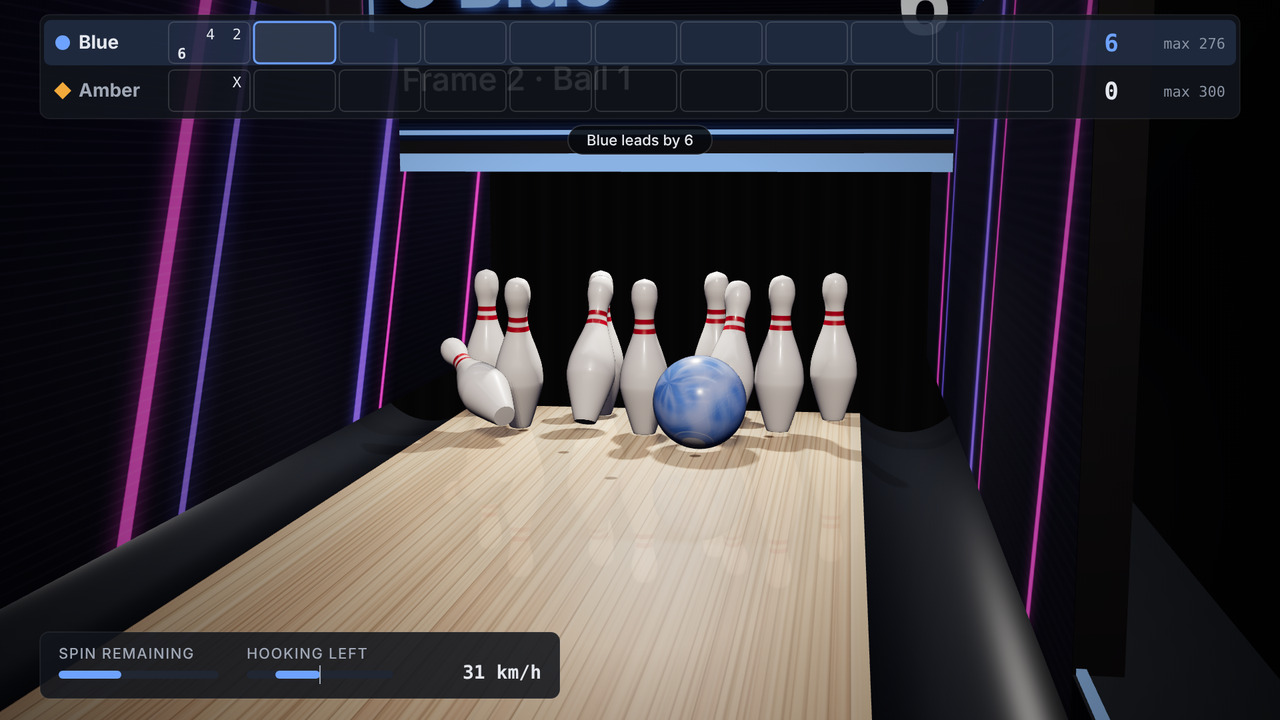
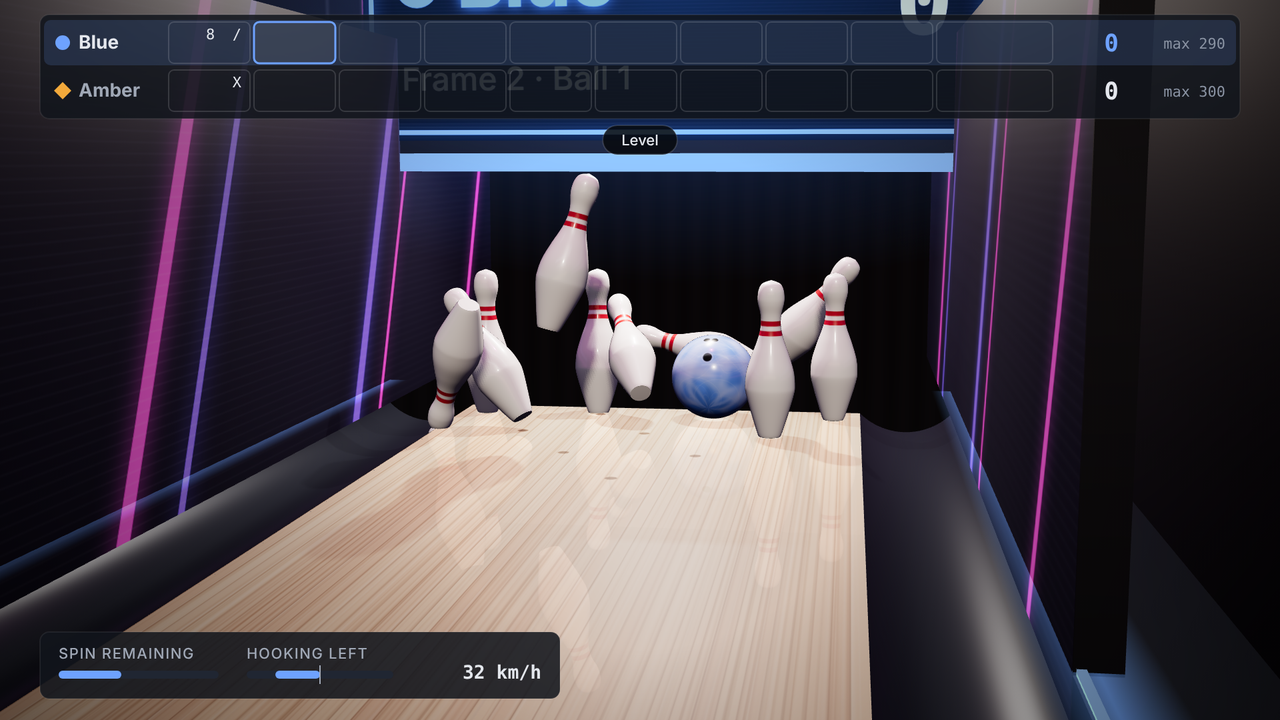
Tenpin Grudge: refine the hall's lighting
- Pink and violet light spills from the wall neon onto the outer lanes; glow halos on the tubes and the sign.
- A short-range light over the pin decks lights the neighbours' pins without streaking down lane 14.
- Reflections on the ball, pins and lane now pick up the neon.
- The capping lights and the lane 14 screen glow softly in the bowler's colour.
Physics, scoring and the bot are unchanged.

Claude-Session: https://claude.ai/code/session_01LpKQHdNm2zbJTVhMqFWkmD

diff --git a/master.html b/master.html
@@ -8529,6 +8529,8 @@ class View {
     for (let i = 0; i < 9; i++) rm(new THREE.PlaneGeometry(10, 0.5), new THREE.MeshBasicMaterial({ color: new THREE.Color(5, 5.2, 5.6), side: THREE.DoubleSide }), 0, 6.3, -28 + i * 5, Math.PI / 2);
     rm(new THREE.PlaneGeometry(12, 1.2), new THREE.MeshBasicMaterial({ color: new THREE.Color(1.6, 1.0, 0.55), side: THREE.DoubleSide }), 0, 2, 11);   // warm glow from the bar behind you
     rm(new THREE.PlaneGeometry(12, 0.8), new THREE.MeshBasicMaterial({ color: new THREE.Color(0.9, 1.0, 1.3), side: THREE.DoubleSide }), 0, 1.2, -31);
+    for (const s of [-1, 1]) for (const [y, c3] of [[1, [4, 0.9, 3.4]], [2.7, [2.2, 1.7, 4]]]) rm(new THREE.BoxGeometry(0.15, 0.12, 40), new THREE.MeshBasicMaterial({ color: new THREE.Color(...c3) }), s * 11.5, y, -10);   // the neon tubes on the side walls
+    rm(new THREE.PlaneGeometry(9, 0.7), new THREE.MeshBasicMaterial({ color: new THREE.Color(3, 0.7, 2.6), side: THREE.DoubleSide }), 0, 2.1, -31.4);   // the sign
     this.env = pm.fromScene(room, 0.03).texture; sc.environment = this.env; sc.environmentIntensity = 0.55; pm.dispose(); for (const o of dispose) o.dispose();
 
     // Lights: a key light from the ceiling, a hard light hidden in the masking unit over the pin deck, a little fill
@@ -8536,9 +8538,12 @@ class View {
     const sun = new THREE.DirectionalLight(0xfff1df, 1.5); sun.position.set(1.4, 9, 3); sun.target.position.set(0, 0, -10); sun.castShadow = true;
     Object.assign(sun.shadow.camera, { left: -2.2, right: 2.2, top: 15, bottom: -15, near: 2, far: 24 }); sun.shadow.camera.updateProjectionMatrix();
     sun.shadow.mapSize.set(1024, 4096); sun.shadow.bias = -0.0003; sun.shadow.normalBias = 0.01; sun.shadow.radius = 3; sc.add(sun, sun.target);
-    const deck = new THREE.SpotLight(0xfff6ea, 4.5, 6, 0.8, 0.7, 2); deck.position.set(0, 0.95, -(DECK + 0.1)); deck.target.position.set(0, 0, -(HEAD + 0.25));
+    const deck = new THREE.SpotLight(0xfff6ea, 3.5, 6, 0.8, 0.7, 2); deck.position.set(0, 0.95, -(DECK + 0.1)); deck.target.position.set(0, 0, -(HEAD + 0.25));
     deck.castShadow = true; deck.shadow.mapSize.set(1024, 1024); deck.shadow.bias = -0.0004; deck.shadow.normalBias = 0.01; deck.shadow.radius = 3; deck.shadow.camera.near = 0.2; sc.add(deck, deck.target);
     const front = new THREE.SpotLight(0xffe8cc, 4, 9, 0.5, 0.8, 2); front.position.set(0, 3, 0.5); front.target.position.set(0, 0, -3); sc.add(front, front.target);   // keeps the approach and the ball in hand lit
+    const decks = new THREE.SpotLight(0xfff1e4, 6, 4.4, 1.35, 0.5, 2); decks.position.set(0, 1.3, -(DECK + 0.4)); decks.target.position.set(0, 0, -(HEAD + 0.2)); sc.add(decks, decks.target);   // the neighbours' pin decks
+    for (const s of [-1, 1]) for (const [d, col] of [[4, '#8B6CFF'], [13, '#FF4FD8']]) { const pl = new THREE.PointLight(col, 7, 7.5, 2); pl.position.set(s * (3.5 * PITCH - 0.7), 1.7, -d); sc.add(pl); }   // neon spill from the walls
+    const sp = new THREE.PointLight('#FF4FD8', 3.5, 5, 2); sp.position.set(0, 2.1, -(DECK - 0.3)); sc.add(sp);   // and from the sign over the masking units
 
     // The lane: maple and pine boards with their grain, the inlaid dots, arrows and range finders, pin spots
     const TW = 512, TH = 4096, [tex, c] = canvas(TW, TH), R = rand(7), py = d => (1 - (d + 1.5) / len) * TH, px = x => (x / LW * 0.5 + 0.5) * TW, bw = TW / 39;
@@ -8591,14 +8596,19 @@ class View {
     kc.shadowBlur = 0; kc.fillStyle = 'rgba(255,255,255,0.06)'; for (let y = 0; y < 300; y += 6) kc.fillRect(0, y, 1024, 1);
     const ktex = new THREE.CanvasTexture(kt); ktex.colorSpace = THREE.SRGBColorSpace;
     const kMat = new THREE.MeshStandardMaterial({ color: 0x222233, roughness: 0.5, emissive: 0xffffff, emissiveMap: ktex, emissiveIntensity: 0.7 }), kBox = mat('#12101C', 0.6);
-    this.leds = [];
+    const [gv, gvc] = canvas(4, 128), [gh, ghc] = canvas(128, 4), [gr, grc] = canvas(128, 128);
+    for (const [cx3, w3, h3, vert] of [[gvc, 4, 128, 1], [ghc, 128, 4, 0]]) { const lg = vert ? cx3.createLinearGradient(0, 0, 0, h3) : cx3.createLinearGradient(0, 0, w3, 0); lg.addColorStop(0, 'rgba(255,255,255,0)'); lg.addColorStop(0.5, 'rgba(255,255,255,1)'); lg.addColorStop(1, 'rgba(255,255,255,0)'); cx3.fillStyle = lg; cx3.fillRect(0, 0, w3, h3); }
+    const rg = grc.createRadialGradient(64, 64, 0, 64, 64, 64); rg.addColorStop(0, 'rgba(255,255,255,1)'); rg.addColorStop(1, 'rgba(255,255,255,0)'); grc.fillStyle = rg; grc.fillRect(0, 0, 128, 128);
+    const [gvt, ght, grt] = [gv, gh, gr].map(cv2 => new THREE.CanvasTexture(cv2));
+    const glow = (col, k, tex) => new THREE.MeshBasicMaterial({ color: new THREE.Color(col).multiplyScalar(k), map: tex, transparent: true, blending: THREE.AdditiveBlending, depthWrite: false });
+    this.leds = []; this.ledGlow = glow('#ffffff', 0.5, ght);
     for (let n = -NL; n <= NL; n++) {
       const cx = n * PITCH;
       for (const s of [-1, 1]) { const g2 = add(new THREE.Mesh(gutGeo, gutMat), cx + s * (LW + GW / 2), R2 - 0.048, mid); g2.receiveShadow = true; }
       if (n) { const l2 = new THREE.Mesh(new THREE.PlaneGeometry(LW * 2, len), sideLane); l2.rotation.x = -Math.PI / 2; l2.receiveShadow = true; add(l2, cx, 0, mid); }
       if (n < NL) {                                                                                 // capping between this lane and the next
         const cap = new THREE.Mesh(new THREE.BoxGeometry(0.3, 0.06, DECK + 1.5), capMat); cap.receiveShadow = true; add(cap, cx + PITCH / 2, 0.03, mid);
-        if (n === -1 || n === 0) { const led = new THREE.Mesh(new THREE.BoxGeometry(0.012, 0.012, DECK + 1.5), new THREE.MeshBasicMaterial({ color: T.p[0] })); add(led, cx + PITCH / 2 + (n ? 0.14 : -0.14), 0.062, mid); this.leds.push(led); }
+        if (n === -1 || n === 0) { const led = new THREE.Mesh(new THREE.BoxGeometry(0.012, 0.012, DECK + 1.5), new THREE.MeshBasicMaterial({ color: T.p[0] })); add(led, cx + PITCH / 2 + (n ? 0.14 : -0.14), 0.062, mid); this.leds.push(led); const lg2 = new THREE.Mesh(new THREE.PlaneGeometry(0.16, DECK + 1.5).rotateX(-Math.PI / 2), this.ledGlow); lg2.renderOrder = 3; add(lg2, cx + PITCH / 2 + (n ? 0.12 : -0.12), 0.064, mid); }
       }
       for (const s of [-1, 1]) {
         const k = new THREE.Mesh(new THREE.BoxGeometry(0.06, 1.0, 3.4), kBox); k.receiveShadow = true; add(k, cx + s * (far + 0.03), 0.5, DECK - 0.5);
@@ -8609,6 +8619,7 @@ class View {
     for (const s of [-1, 1]) {
       const wall = new THREE.Mesh(new THREE.PlaneGeometry(DECK + 14, 4.6), mat('#0D0C17', 0.8)); wall.rotation.y = -s * Math.PI / 2; add(wall, s * HALL, 2.2, (DECK - 14) / 2 + 0.3);
       for (const [y, col] of [[0.95, MAG], [2.7, VIO]]) add(new THREE.Mesh(new THREE.BoxGeometry(0.04, 0.035, DECK + 14), new THREE.MeshBasicMaterial({ color: new THREE.Color(col).multiplyScalar(1.6) })), s * (HALL - 0.24), y, (DECK - 14) / 2 + 0.3);
+      for (const [y, col] of [[0.95, MAG], [2.7, VIO]]) { const h2 = new THREE.Mesh(new THREE.PlaneGeometry(DECK + 14, 0.9), glow(col, 0.32, gvt)); h2.rotation.y = -s * Math.PI / 2; h2.renderOrder = 3; add(h2, s * (HALL - 0.27), y, (DECK - 14) / 2 + 0.3); }
       for (let d = -6; d < DECK; d += 4) add(new THREE.Mesh(new THREE.BoxGeometry(0.2, 4.6, 0.5), mat('#15132A', 0.6)), s * (HALL - 0.1), 2.2, d);
     }
     const approach = new THREE.Mesh(new THREE.BoxGeometry(HALL * 2, 0.1, 12), mat('#221A24', 0.8)); add(approach, 0, -0.05, -7.5);   // the floor behind the foul lines
@@ -8644,6 +8655,8 @@ class View {
       neon(() => { sc2.beginPath(); sc2.arc(cx2 + s * 120, 180, 60, 0, 7); sc2.stroke(); }, VIO, 6);
       neon(() => { sc2.beginPath(); sc2.moveTo(cx2 + s * 300, 150); sc2.lineTo(cx2 + s * 1100, 150); sc2.stroke(); }, MAG, 4);
     }
+    const halo = new THREE.Mesh(new THREE.PlaneGeometry(PITCH * 4.2, 1.5), glow(MAG, 0.22, grt)); halo.renderOrder = 3; add(halo, 0, 1.6 + PITCH * lanes * 150 / SW, DECK + 0.19);
+    this.dglowMat = glow('#ffffff', 0.15, grt); const dglow = new THREE.Mesh(new THREE.PlaneGeometry(PITCH * 1.9, 1.6), this.dglowMat); dglow.renderOrder = 3; add(dglow, 0, 1.13, DECK + 0.125);   // the lane 14 screen glows in the bowler's colour
     const stex = new THREE.CanvasTexture(st2); stex.colorSpace = THREE.SRGBColorSpace; stex.anisotropy = 8;
     add(new THREE.Mesh(new THREE.PlaneGeometry(PITCH * lanes, PITCH * lanes * 300 / SW), new THREE.MeshBasicMaterial({ map: stex })), 0, 1.6 + PITCH * lanes * 150 / SW, DECK + 0.2);
     add(new THREE.Mesh(new THREE.BoxGeometry(HALL * 2, 3, 0.1), mat('#08070F', 1)), 0, 3.1, DECK + 0.26);
@@ -8775,7 +8788,7 @@ class View {
       if (m.visible) { m.position.copy(b.position); m.position.y -= sink(b.position, LW + 0.02); m.quaternion.copy(b.quaternion); }
       mm.visible = m.visible && onLane(b.position); if (mm.visible) { mm.position.copy(m.position); mm.quaternion.copy(m.quaternion); }
     });
-    const ball = this.ball; ball.material = this.mball.material = this.skins[c]; this.strip.material.color.set(T.p[c]); for (const l of this.leds) l.material.color.set(T.p[c]);
+    const ball = this.ball; ball.material = this.mball.material = this.skins[c]; this.strip.material.color.set(T.p[c]); for (const l of this.leds) l.material.color.set(T.p[c]); this.ledGlow.color.set(T.p[c]).multiplyScalar(0.45); this.dglowMat.color.set(T.p[c]).multiplyScalar(0.15);
     for (const m of this.bumpers) m.visible = g.assist(g.cur) === 2 && st !== 'over';
     if (st === 'stance' || st === 'swing' || st === 'intro') {
       const h = st === 'swing' ? Math.min(1, g.sw.t / 0.8) : 0, e = h * h * (3 - 2 * h);

diff --git a/src/38-tenpin-grudge.js b/src/38-tenpin-grudge.js
@@ -229,6 +229,8 @@ class View {
     for (let i = 0; i < 9; i++) rm(new THREE.PlaneGeometry(10, 0.5), new THREE.MeshBasicMaterial({ color: new THREE.Color(5, 5.2, 5.6), side: THREE.DoubleSide }), 0, 6.3, -28 + i * 5, Math.PI / 2);
     rm(new THREE.PlaneGeometry(12, 1.2), new THREE.MeshBasicMaterial({ color: new THREE.Color(1.6, 1.0, 0.55), side: THREE.DoubleSide }), 0, 2, 11);   // warm glow from the bar behind you
     rm(new THREE.PlaneGeometry(12, 0.8), new THREE.MeshBasicMaterial({ color: new THREE.Color(0.9, 1.0, 1.3), side: THREE.DoubleSide }), 0, 1.2, -31);
+    for (const s of [-1, 1]) for (const [y, c3] of [[1, [4, 0.9, 3.4]], [2.7, [2.2, 1.7, 4]]]) rm(new THREE.BoxGeometry(0.15, 0.12, 40), new THREE.MeshBasicMaterial({ color: new THREE.Color(...c3) }), s * 11.5, y, -10);   // the neon tubes on the side walls
+    rm(new THREE.PlaneGeometry(9, 0.7), new THREE.MeshBasicMaterial({ color: new THREE.Color(3, 0.7, 2.6), side: THREE.DoubleSide }), 0, 2.1, -31.4);   // the sign
     this.env = pm.fromScene(room, 0.03).texture; sc.environment = this.env; sc.environmentIntensity = 0.55; pm.dispose(); for (const o of dispose) o.dispose();
 
     // Lights: a key light from the ceiling, a hard light hidden in the masking unit over the pin deck, a little fill
@@ -236,9 +238,12 @@ class View {
     const sun = new THREE.DirectionalLight(0xfff1df, 1.5); sun.position.set(1.4, 9, 3); sun.target.position.set(0, 0, -10); sun.castShadow = true;
     Object.assign(sun.shadow.camera, { left: -2.2, right: 2.2, top: 15, bottom: -15, near: 2, far: 24 }); sun.shadow.camera.updateProjectionMatrix();
     sun.shadow.mapSize.set(1024, 4096); sun.shadow.bias = -0.0003; sun.shadow.normalBias = 0.01; sun.shadow.radius = 3; sc.add(sun, sun.target);
-    const deck = new THREE.SpotLight(0xfff6ea, 4.5, 6, 0.8, 0.7, 2); deck.position.set(0, 0.95, -(DECK + 0.1)); deck.target.position.set(0, 0, -(HEAD + 0.25));
+    const deck = new THREE.SpotLight(0xfff6ea, 3.5, 6, 0.8, 0.7, 2); deck.position.set(0, 0.95, -(DECK + 0.1)); deck.target.position.set(0, 0, -(HEAD + 0.25));
     deck.castShadow = true; deck.shadow.mapSize.set(1024, 1024); deck.shadow.bias = -0.0004; deck.shadow.normalBias = 0.01; deck.shadow.radius = 3; deck.shadow.camera.near = 0.2; sc.add(deck, deck.target);
     const front = new THREE.SpotLight(0xffe8cc, 4, 9, 0.5, 0.8, 2); front.position.set(0, 3, 0.5); front.target.position.set(0, 0, -3); sc.add(front, front.target);   // keeps the approach and the ball in hand lit
+    const decks = new THREE.SpotLight(0xfff1e4, 6, 4.4, 1.35, 0.5, 2); decks.position.set(0, 1.3, -(DECK + 0.4)); decks.target.position.set(0, 0, -(HEAD + 0.2)); sc.add(decks, decks.target);   // the neighbours' pin decks
+    for (const s of [-1, 1]) for (const [d, col] of [[4, '#8B6CFF'], [13, '#FF4FD8']]) { const pl = new THREE.PointLight(col, 7, 7.5, 2); pl.position.set(s * (3.5 * PITCH - 0.7), 1.7, -d); sc.add(pl); }   // neon spill from the walls
+    const sp = new THREE.PointLight('#FF4FD8', 3.5, 5, 2); sp.position.set(0, 2.1, -(DECK - 0.3)); sc.add(sp);   // and from the sign over the masking units
 
     // The lane: maple and pine boards with their grain, the inlaid dots, arrows and range finders, pin spots
     const TW = 512, TH = 4096, [tex, c] = canvas(TW, TH), R = rand(7), py = d => (1 - (d + 1.5) / len) * TH, px = x => (x / LW * 0.5 + 0.5) * TW, bw = TW / 39;
@@ -291,14 +296,19 @@ class View {
     kc.shadowBlur = 0; kc.fillStyle = 'rgba(255,255,255,0.06)'; for (let y = 0; y < 300; y += 6) kc.fillRect(0, y, 1024, 1);
     const ktex = new THREE.CanvasTexture(kt); ktex.colorSpace = THREE.SRGBColorSpace;
     const kMat = new THREE.MeshStandardMaterial({ color: 0x222233, roughness: 0.5, emissive: 0xffffff, emissiveMap: ktex, emissiveIntensity: 0.7 }), kBox = mat('#12101C', 0.6);
-    this.leds = [];
+    const [gv, gvc] = canvas(4, 128), [gh, ghc] = canvas(128, 4), [gr, grc] = canvas(128, 128);
+    for (const [cx3, w3, h3, vert] of [[gvc, 4, 128, 1], [ghc, 128, 4, 0]]) { const lg = vert ? cx3.createLinearGradient(0, 0, 0, h3) : cx3.createLinearGradient(0, 0, w3, 0); lg.addColorStop(0, 'rgba(255,255,255,0)'); lg.addColorStop(0.5, 'rgba(255,255,255,1)'); lg.addColorStop(1, 'rgba(255,255,255,0)'); cx3.fillStyle = lg; cx3.fillRect(0, 0, w3, h3); }
+    const rg = grc.createRadialGradient(64, 64, 0, 64, 64, 64); rg.addColorStop(0, 'rgba(255,255,255,1)'); rg.addColorStop(1, 'rgba(255,255,255,0)'); grc.fillStyle = rg; grc.fillRect(0, 0, 128, 128);
+    const [gvt, ght, grt] = [gv, gh, gr].map(cv2 => new THREE.CanvasTexture(cv2));
+    const glow = (col, k, tex) => new THREE.MeshBasicMaterial({ color: new THREE.Color(col).multiplyScalar(k), map: tex, transparent: true, blending: THREE.AdditiveBlending, depthWrite: false });
+    this.leds = []; this.ledGlow = glow('#ffffff', 0.5, ght);
     for (let n = -NL; n <= NL; n++) {
       const cx = n * PITCH;
       for (const s of [-1, 1]) { const g2 = add(new THREE.Mesh(gutGeo, gutMat), cx + s * (LW + GW / 2), R2 - 0.048, mid); g2.receiveShadow = true; }
       if (n) { const l2 = new THREE.Mesh(new THREE.PlaneGeometry(LW * 2, len), sideLane); l2.rotation.x = -Math.PI / 2; l2.receiveShadow = true; add(l2, cx, 0, mid); }
       if (n < NL) {                                                                                 // capping between this lane and the next
         const cap = new THREE.Mesh(new THREE.BoxGeometry(0.3, 0.06, DECK + 1.5), capMat); cap.receiveShadow = true; add(cap, cx + PITCH / 2, 0.03, mid);
-        if (n === -1 || n === 0) { const led = new THREE.Mesh(new THREE.BoxGeometry(0.012, 0.012, DECK + 1.5), new THREE.MeshBasicMaterial({ color: T.p[0] })); add(led, cx + PITCH / 2 + (n ? 0.14 : -0.14), 0.062, mid); this.leds.push(led); }
+        if (n === -1 || n === 0) { const led = new THREE.Mesh(new THREE.BoxGeometry(0.012, 0.012, DECK + 1.5), new THREE.MeshBasicMaterial({ color: T.p[0] })); add(led, cx + PITCH / 2 + (n ? 0.14 : -0.14), 0.062, mid); this.leds.push(led); const lg2 = new THREE.Mesh(new THREE.PlaneGeometry(0.16, DECK + 1.5).rotateX(-Math.PI / 2), this.ledGlow); lg2.renderOrder = 3; add(lg2, cx + PITCH / 2 + (n ? 0.12 : -0.12), 0.064, mid); }
       }
       for (const s of [-1, 1]) {
         const k = new THREE.Mesh(new THREE.BoxGeometry(0.06, 1.0, 3.4), kBox); k.receiveShadow = true; add(k, cx + s * (far + 0.03), 0.5, DECK - 0.5);
@@ -309,6 +319,7 @@ class View {
     for (const s of [-1, 1]) {
       const wall = new THREE.Mesh(new THREE.PlaneGeometry(DECK + 14, 4.6), mat('#0D0C17', 0.8)); wall.rotation.y = -s * Math.PI / 2; add(wall, s * HALL, 2.2, (DECK - 14) / 2 + 0.3);
       for (const [y, col] of [[0.95, MAG], [2.7, VIO]]) add(new THREE.Mesh(new THREE.BoxGeometry(0.04, 0.035, DECK + 14), new THREE.MeshBasicMaterial({ color: new THREE.Color(col).multiplyScalar(1.6) })), s * (HALL - 0.24), y, (DECK - 14) / 2 + 0.3);
+      for (const [y, col] of [[0.95, MAG], [2.7, VIO]]) { const h2 = new THREE.Mesh(new THREE.PlaneGeometry(DECK + 14, 0.9), glow(col, 0.32, gvt)); h2.rotation.y = -s * Math.PI / 2; h2.renderOrder = 3; add(h2, s * (HALL - 0.27), y, (DECK - 14) / 2 + 0.3); }
       for (let d = -6; d < DECK; d += 4) add(new THREE.Mesh(new THREE.BoxGeometry(0.2, 4.6, 0.5), mat('#15132A', 0.6)), s * (HALL - 0.1), 2.2, d);
     }
     const approach = new THREE.Mesh(new THREE.BoxGeometry(HALL * 2, 0.1, 12), mat('#221A24', 0.8)); add(approach, 0, -0.05, -7.5);   // the floor behind the foul lines
@@ -344,6 +355,8 @@ class View {
       neon(() => { sc2.beginPath(); sc2.arc(cx2 + s * 120, 180, 60, 0, 7); sc2.stroke(); }, VIO, 6);
       neon(() => { sc2.beginPath(); sc2.moveTo(cx2 + s * 300, 150); sc2.lineTo(cx2 + s * 1100, 150); sc2.stroke(); }, MAG, 4);
     }
+    const halo = new THREE.Mesh(new THREE.PlaneGeometry(PITCH * 4.2, 1.5), glow(MAG, 0.22, grt)); halo.renderOrder = 3; add(halo, 0, 1.6 + PITCH * lanes * 150 / SW, DECK + 0.19);
+    this.dglowMat = glow('#ffffff', 0.15, grt); const dglow = new THREE.Mesh(new THREE.PlaneGeometry(PITCH * 1.9, 1.6), this.dglowMat); dglow.renderOrder = 3; add(dglow, 0, 1.13, DECK + 0.125);   // the lane 14 screen glows in the bowler's colour
     const stex = new THREE.CanvasTexture(st2); stex.colorSpace = THREE.SRGBColorSpace; stex.anisotropy = 8;
     add(new THREE.Mesh(new THREE.PlaneGeometry(PITCH * lanes, PITCH * lanes * 300 / SW), new THREE.MeshBasicMaterial({ map: stex })), 0, 1.6 + PITCH * lanes * 150 / SW, DECK + 0.2);
     add(new THREE.Mesh(new THREE.BoxGeometry(HALL * 2, 3, 0.1), mat('#08070F', 1)), 0, 3.1, DECK + 0.26);
@@ -475,7 +488,7 @@ class View {
       if (m.visible) { m.position.copy(b.position); m.position.y -= sink(b.position, LW + 0.02); m.quaternion.copy(b.quaternion); }
       mm.visible = m.visible && onLane(b.position); if (mm.visible) { mm.position.copy(m.position); mm.quaternion.copy(m.quaternion); }
     });
-    const ball = this.ball; ball.material = this.mball.material = this.skins[c]; this.strip.material.color.set(T.p[c]); for (const l of this.leds) l.material.color.set(T.p[c]);
+    const ball = this.ball; ball.material = this.mball.material = this.skins[c]; this.strip.material.color.set(T.p[c]); for (const l of this.leds) l.material.color.set(T.p[c]); this.ledGlow.color.set(T.p[c]).multiplyScalar(0.45); this.dglowMat.color.set(T.p[c]).multiplyScalar(0.15);
     for (const m of this.bumpers) m.visible = g.assist(g.cur) === 2 && st !== 'over';
     if (st === 'stance' || st === 'swing' || st === 'intro') {
       const h = st === 'swing' ? Math.min(1, g.sw.t / 0.8) : 0, e = h * h * (3 - 2 * h);

diff --git a/agents/BUILD_LOG.md b/agents/BUILD_LOG.md
@@ -70,3 +70,17 @@ line below, each followed by text.
 - Rule 5: (an action neither can do alone) WAIVED by Marco with rule 3, as before.
 - Rule 6: (3 to 15 minute sessions, instant restart) unchanged.
 - Rule 7: (per-player assists) unchanged.
+
+## 2026-11-14 · tenpin-grudge · polish
+- Scope: refine the hall's lighting, at Marco's request ("refine environment"). No change to physics, scoring, controls or the bot.
+- Kit: as before, plus additive blending from the vendored three.js (added in PR #1).
+- Two-player action: unchanged. A versus match on one lane.
+- Hard part: coloured light without washing out the lane. The neon spills pink and violet onto the outer lanes from four short-range lights; a short-range light over the pin decks lights the neighbours' pins without streaking down lane 14; reflections now pick up the neon.
+- Assists: unchanged.
+- Rule 1: (one shared screen) unchanged.
+- Rule 2: (no hidden information) unchanged.
+- Rule 3: (win and lose together) WAIVED by Marco for this slot, as before.
+- Rule 4: (revive, never eliminate) unchanged.
+- Rule 5: (an action neither can do alone) WAIVED by Marco with rule 3, as before.
+- Rule 6: (3 to 15 minute sessions, instant restart) unchanged.
+- Rule 7: (per-player assists) unchanged.
